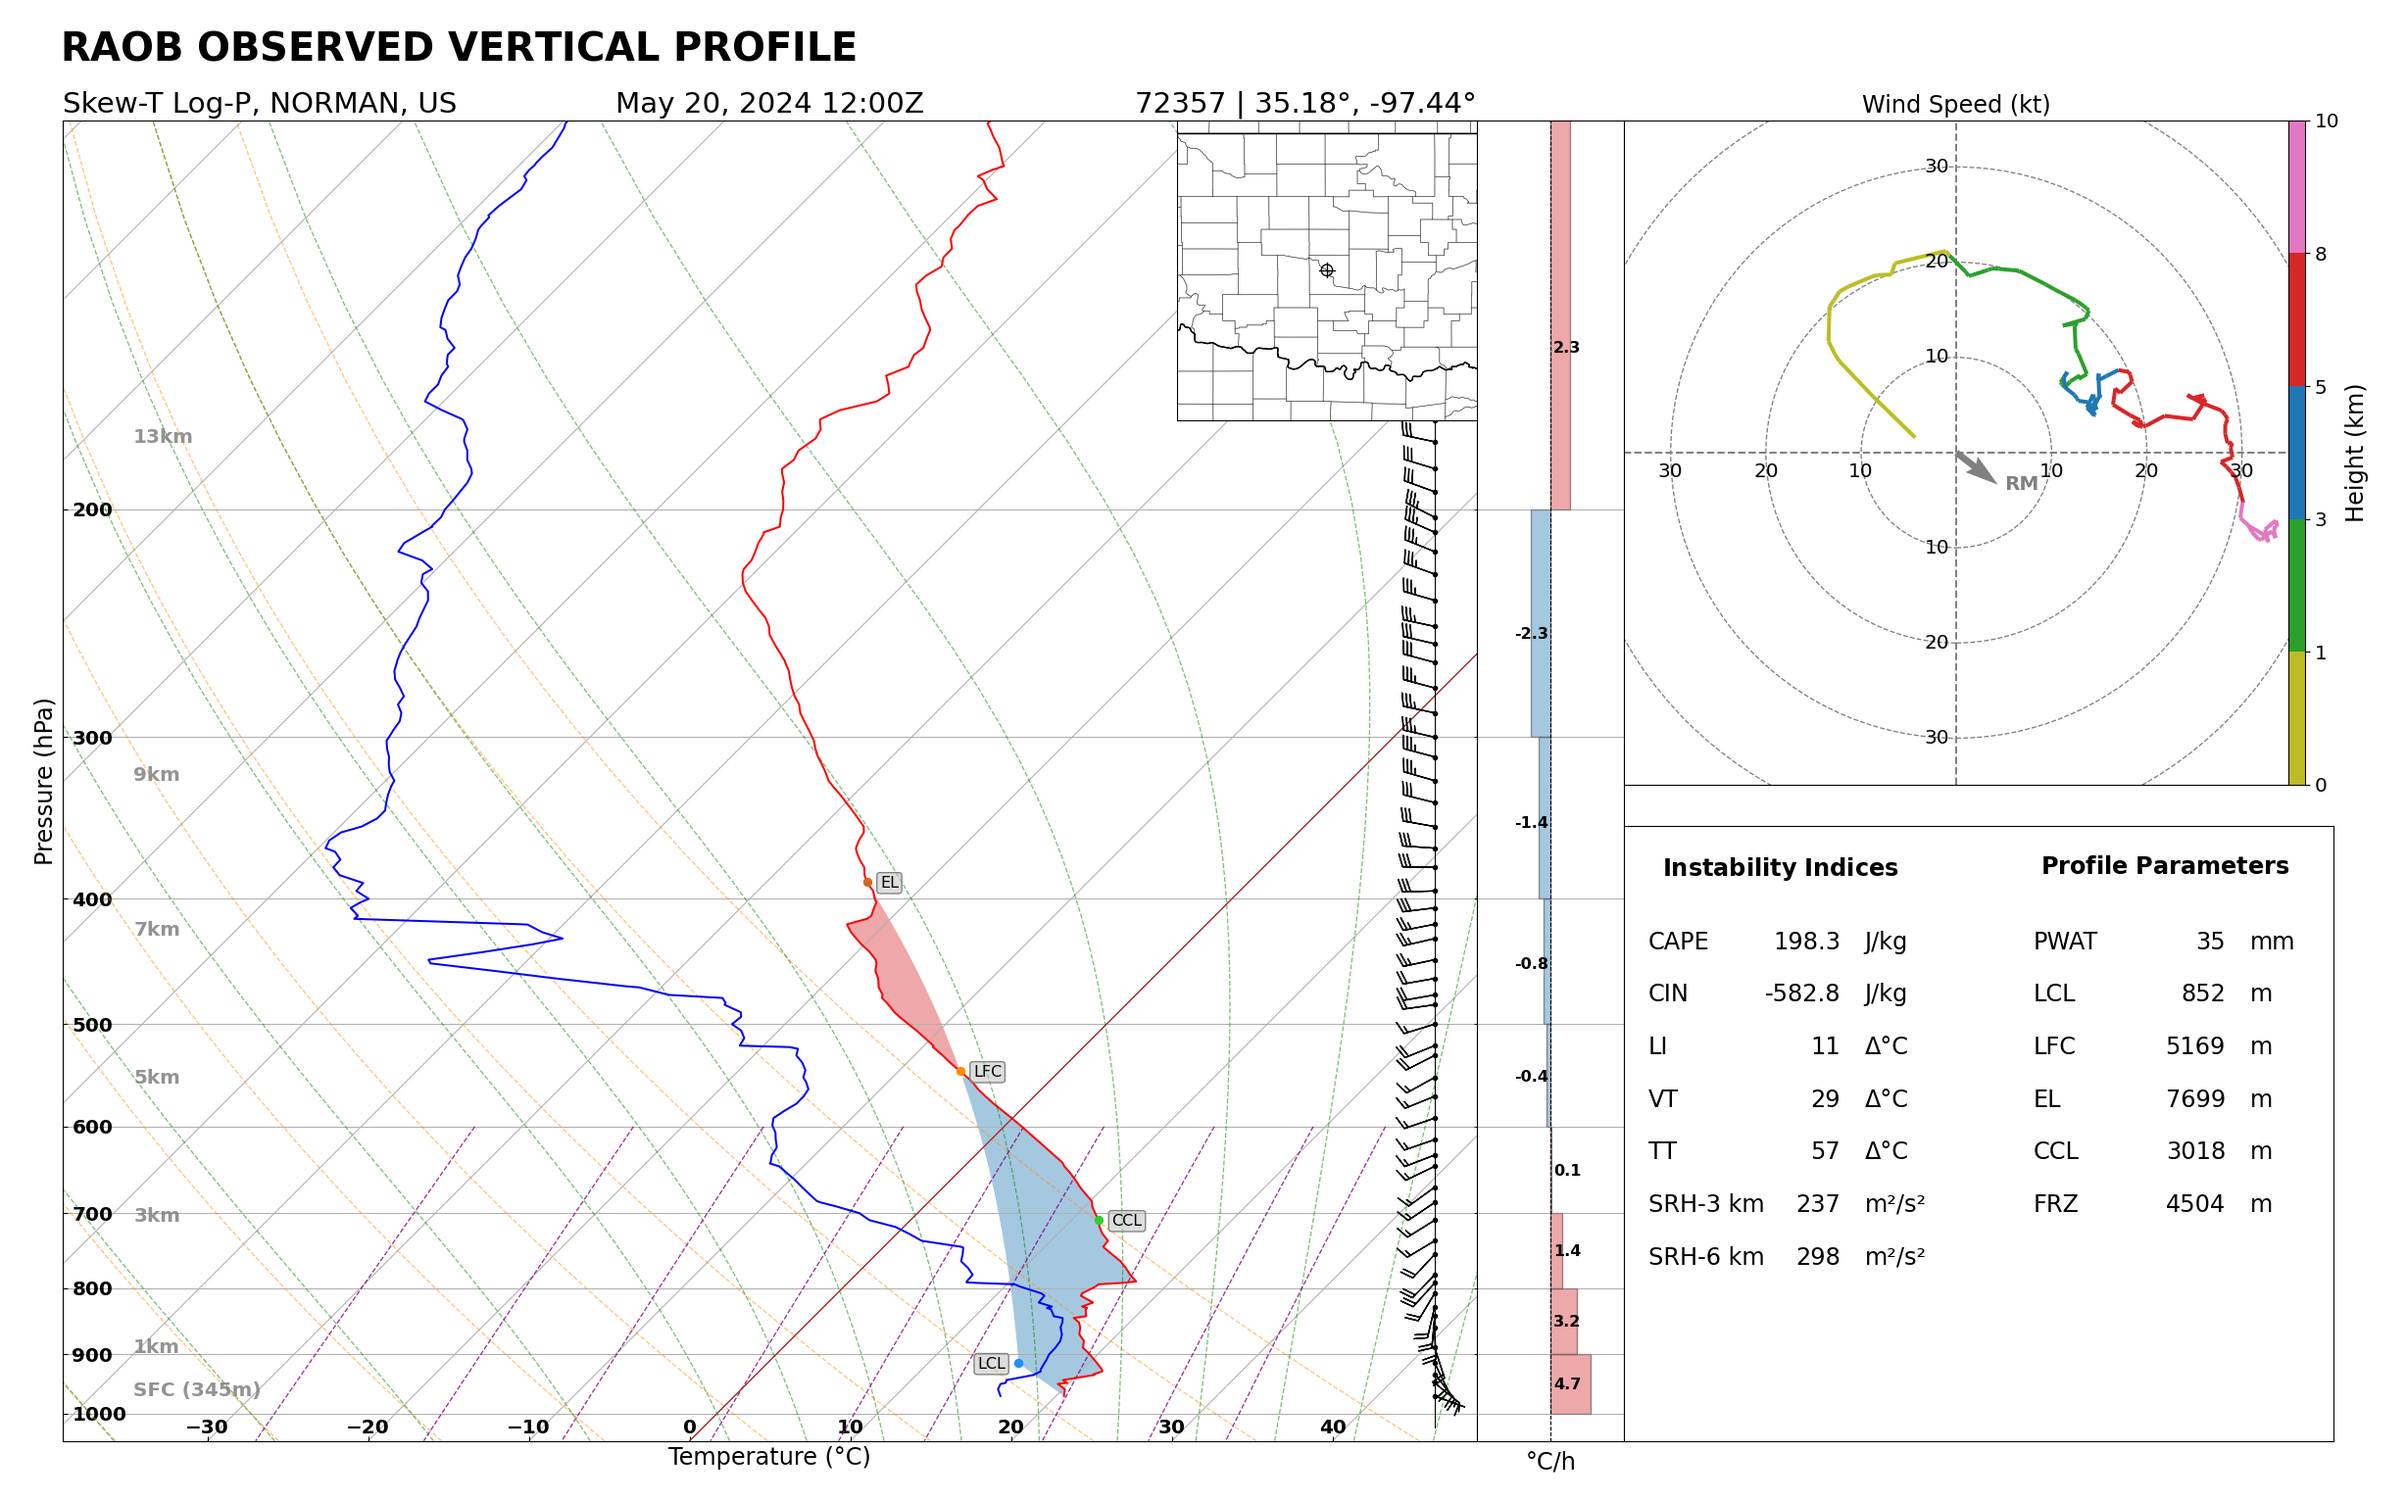
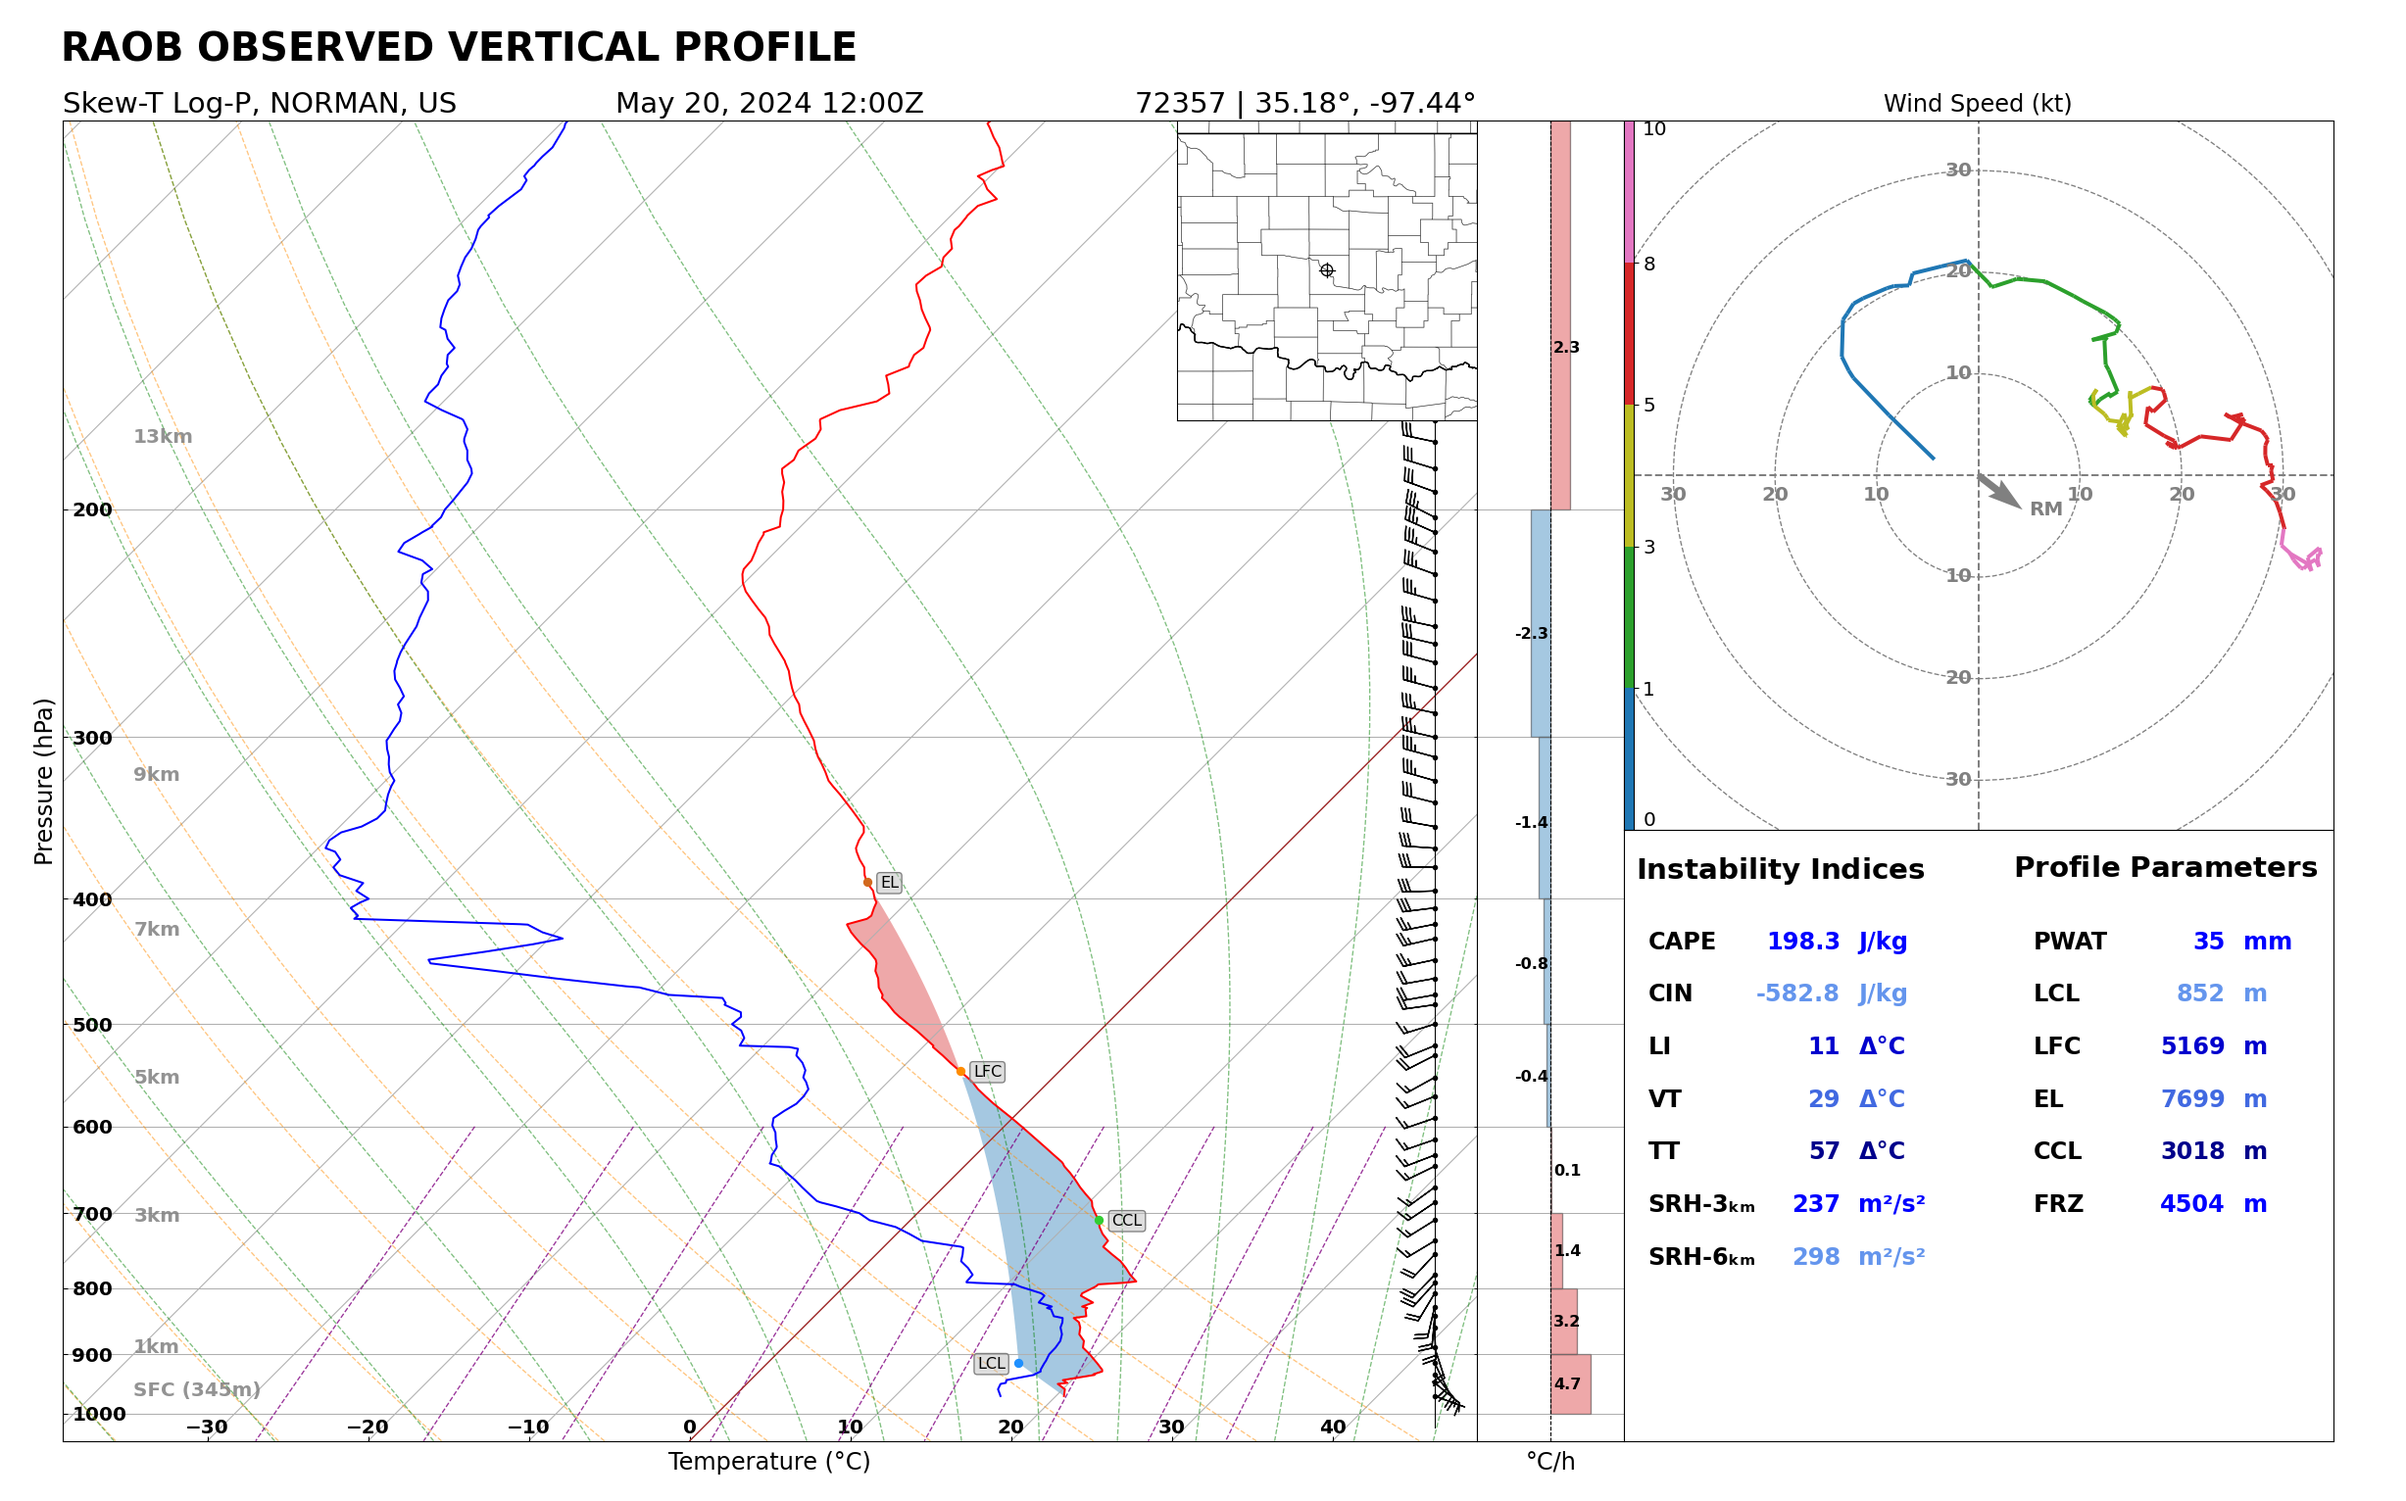
Update files

diff --git a/skewT_plot.py b/skewT_plot.py
@@ -190,7 +190,7 @@ def skewT_plot(pressures, temperatures, dewpoints, wind_u, wind_v, heights, elev
     agl = (heights - heights[0]) / 1000
     mask = agl <= 10   # Limit to heights below 10 km
     intervals = np.array([0, 1, 3, 5, 8, 10])
-    colors = ['tab:olive', 'tab:green', 'tab:blue', 'tab:red', 'tab:pink']
+    colors = ['tab:blue', 'tab:green', 'tab:olive', 'tab:red', 'tab:pink']
 
     component_range = max(abs(wind_u[mask].max()), abs(wind_u[mask].min()), abs(wind_v[mask].max()), abs(wind_v[mask].min()))
     component_range = math.ceil(component_range / 5) * 5
@@ -198,8 +198,7 @@ def skewT_plot(pressures, temperatures, dewpoints, wind_u, wind_v, heights, elev
     grid_increment = valid_increments[np.argmin(abs(valid_increments - component_range / 3))]
     
     # Add hodograph on the right
-    gs = GridSpec(1, 2, left=0.35, bottom=0.4585, right=1, top=0.9385, wspace=0, hspace=0)
-    ax_hodo = fig.add_subplot(gs[0, 1])
+    ax_hodo = fig.add_axes([0.586, 0.447, 0.4725, 0.4725])
     h = Hodograph(ax_hodo, component_range=component_range)
     h.add_grid(increment=grid_increment)
     l = h.plot_colormapped(
@@ -237,28 +236,36 @@ def skewT_plot(pressures, temperatures, dewpoints, wind_u, wind_v, heights, elev
         # Positive X-axis
         ax_hodo.annotate(
             str(vel), (vel, 0), xytext=(0, -15), textcoords='offset points',
-            ha='center', va='center', fontsize=15, color='black'
+            ha='center', va='center', fontsize=15, color='grey', weight='bold'
         )
         # Negative X-axis
         ax_hodo.annotate(
             str(vel), (-vel, 0), xytext=(0, -15), textcoords='offset points',
-            ha='center', va='center', fontsize=15, color='black'
+            ha='center', va='center', fontsize=15, color='grey', weight='bold'
         )
         # Positive Y-axis
         ax_hodo.annotate(
             str(vel), (0, vel), xytext=(-15, 0), textcoords='offset points',
-            ha='center', va='center', fontsize=15, color='black'
+            ha='center', va='center', fontsize=15, color='grey', weight='bold'
         )
         # Negative Y-axis
         ax_hodo.annotate(
             str(vel), (0, -vel), xytext=(-15, 0), textcoords='offset points',
-            ha='center', va='center', fontsize=15, color='black'
+            ha='center', va='center', fontsize=15, color='grey', weight='bold'
         )
 
     # Add the colorbar with custom size
-    cbar = plt.colorbar(l, ax=ax_hodo, orientation='vertical', pad=0, shrink=0.922, aspect=40)  # shrink (size), aspect(thickness)
-    cbar.set_label('Height (km)', fontsize=18)
+    cbar_ax = fig.add_axes([0.675, 0.447, 0.004, 0.4725])
+    cbar = plt.colorbar(l, cax=cbar_ax, orientation='vertical')
     cbar.ax.tick_params(labelsize=15)
+
+    # Adjust tick label vertical alignment
+    for label in cbar.ax.get_yticklabels():
+        text = label.get_text()  # Get the text of the tick label
+        if text == '0':
+            label.set_verticalalignment('bottom')
+        elif text == '10':
+            label.set_verticalalignment('top')
 
     # Cartographic map --------------------------------------------------------------------------------------------------------
     # Parameters: left, bottom, width, height
@@ -290,13 +297,13 @@ def skewT_plot(pressures, temperatures, dewpoints, wind_u, wind_v, heights, elev
     ax_map.set_yticklabels([])
 
     # Add text ----------------------------------------------------------------------------------------------------------------
-    fig.lines.append(plt.Line2D([0.675, 0.675], [0.45, 0.04],
+    fig.lines.append(plt.Line2D([0.675, 0.675], [0.447, 0.04],
                             transform=fig.transFigure, color='black', linewidth=0.8))
-    fig.lines.append(plt.Line2D([0.97, 0.97], [0.45, 0.04],
+    fig.lines.append(plt.Line2D([0.97, 0.97], [0.447, 0.04],
                             transform=fig.transFigure, color='black', linewidth=0.8))
     fig.lines.append(plt.Line2D([0.97, 0.675], [0.04, 0.04],
                             transform=fig.transFigure, color='black', linewidth=0.8))
-    fig.lines.append(plt.Line2D([0.97, 0.675], [0.45, 0.45],
+    fig.lines.append(plt.Line2D([0.97, 0.675], [0.447, 0.447],
                             transform=fig.transFigure, color='black', linewidth=0.8))
         
     ax_hodo.text(
@@ -320,7 +327,7 @@ def skewT_plot(pressures, temperatures, dewpoints, wind_u, wind_v, heights, elev
     fig.text(
         0.74, 0.43,  # Position (X, Y) for table title
         r'$\bf{Instability\ Indices}$',
-        fontsize=18,
+        fontsize=22,
         va='top',
         ha='center',
         linespacing=1.75
@@ -333,8 +340,8 @@ def skewT_plot(pressures, temperatures, dewpoints, wind_u, wind_v, heights, elev
         'LI',
         'VT',
         'TT',
-        'SRH-3 km',
-        'SRH-6 km'
+        'SRH-3ₖₘ',
+        'SRH-6ₖₘ'
     ]
     table_values = [
         f'{cape.m:.1f}',
@@ -358,38 +365,39 @@ def skewT_plot(pressures, temperatures, dewpoints, wind_u, wind_v, heights, elev
     # Set the table position (starting X, Y coordinates)
     table_x_left = 0.685  # X position for labels
     table_x_center = table_x_left + 0.08  # X position for values
-    table_x_right = table_x_center + 0.01  # X position for units
+    table_x_right = table_x_center + 0.0075  # X position for units
     table_y_start = 0.38  # Starting Y position
     line_spacing = 0.035  # Vertical spacing between rows
+
+    colors = ['blue', 'cornflowerblue', 'mediumblue', 'royalblue', 'darkblue']
 
     # Render the table rows
     for i, (label, value, unit) in enumerate(zip(table_labels, table_values, table_units)):
         fig.text(
             table_x_left, table_y_start - i * line_spacing,  # Position for labels
             label,
-            fontsize=18,
-            va='top',
-            ha='left'
+            fontsize=18, weight='bold',
+            va='top', ha='left'
         )
+        # Apply the color from the list based on the index
+        color = colors[i % len(colors)]  # Use modulo to cycle through colors if there are more rows than colors
         fig.text(
             table_x_center, table_y_start - i * line_spacing,  # Position for values
             value,
-            fontsize=18,
-            va='top',
-            ha='right'
+            fontsize=18, weight='bold', color=color,
+            va='top', ha='right'
         )
         fig.text(
             table_x_right, table_y_start - i * line_spacing,  # Position for units
             unit,
-            fontsize=18,
-            va='top',
-            ha='left'
+            fontsize=18, weight='bold', color=color,
+            va='top', ha='left'
         )
 
     fig.text(
         0.90, 0.43,  # Position (X, Y) for table title
         r'$\bf{Profile\ Parameters}$',
-        fontsize=18,
+        fontsize=22,
         va='top',
         ha='center',
         linespacing=1.75
@@ -423,32 +431,31 @@ def skewT_plot(pressures, temperatures, dewpoints, wind_u, wind_v, heights, elev
     # Set the table position (starting X, Y coordinates)
     table_x_left = 0.845  # X position for labels
     table_x_center = table_x_left + 0.08  # X position for values
-    table_x_right = table_x_center + 0.01  # X position for units
+    table_x_right = table_x_center + 0.0075  # X position for units
     table_y_start = 0.38  # Starting Y position
     line_spacing = 0.035  # Vertical spacing between rows
 
-    # Render the table rows
+    # Render the table rowss
     for i, (label, value, unit) in enumerate(zip(table_labels, table_values, table_units)):
         fig.text(
             table_x_left, table_y_start - i * line_spacing,  # Position for labels
             label,
-            fontsize=18,
-            va='top',
-            ha='left'
+            fontsize=18, weight='bold',
+            va='top', ha='left'
         )
+        # Apply the color from the list based on the index
+        color = colors[i % len(colors)]  # Use modulo to cycle through colors if there are more rows than colors
         fig.text(
             table_x_center, table_y_start - i * line_spacing,  # Position for values
             value,
-            fontsize=18,
-            va='top',
-            ha='right'
+            fontsize=18, weight='bold', color=color,
+            va='top', ha='right'
         )
         fig.text(
             table_x_right, table_y_start - i * line_spacing,  # Position for units
             unit,
-            fontsize=18,
-            va='top',
-            ha='left'
+            fontsize=18, weight='bold', color=color,
+            va='top', ha='left'
         )
 
     # Save figure
